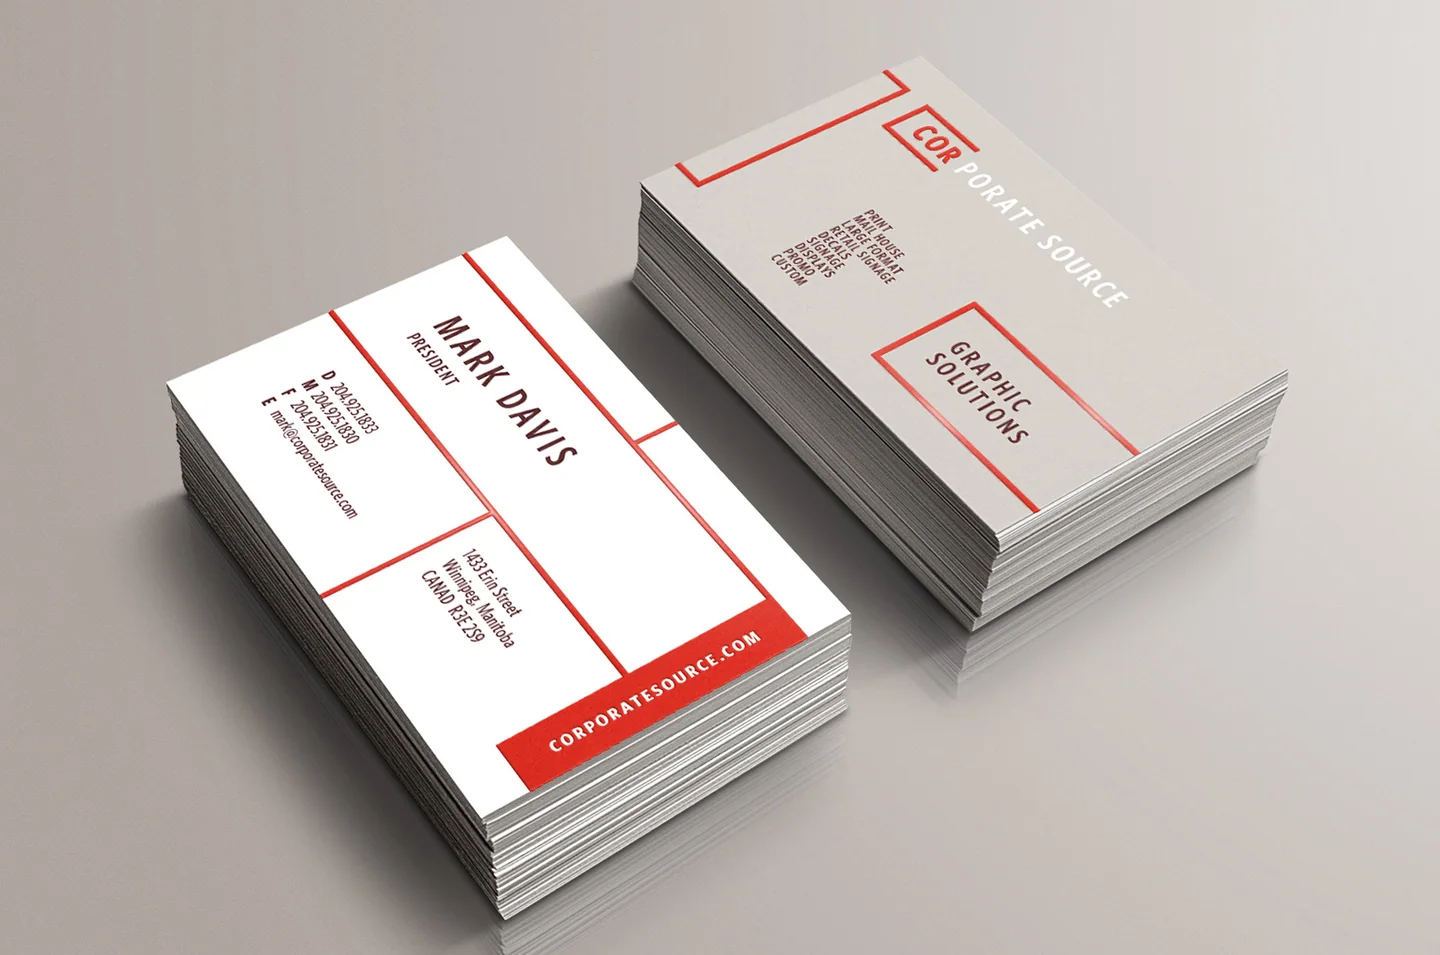
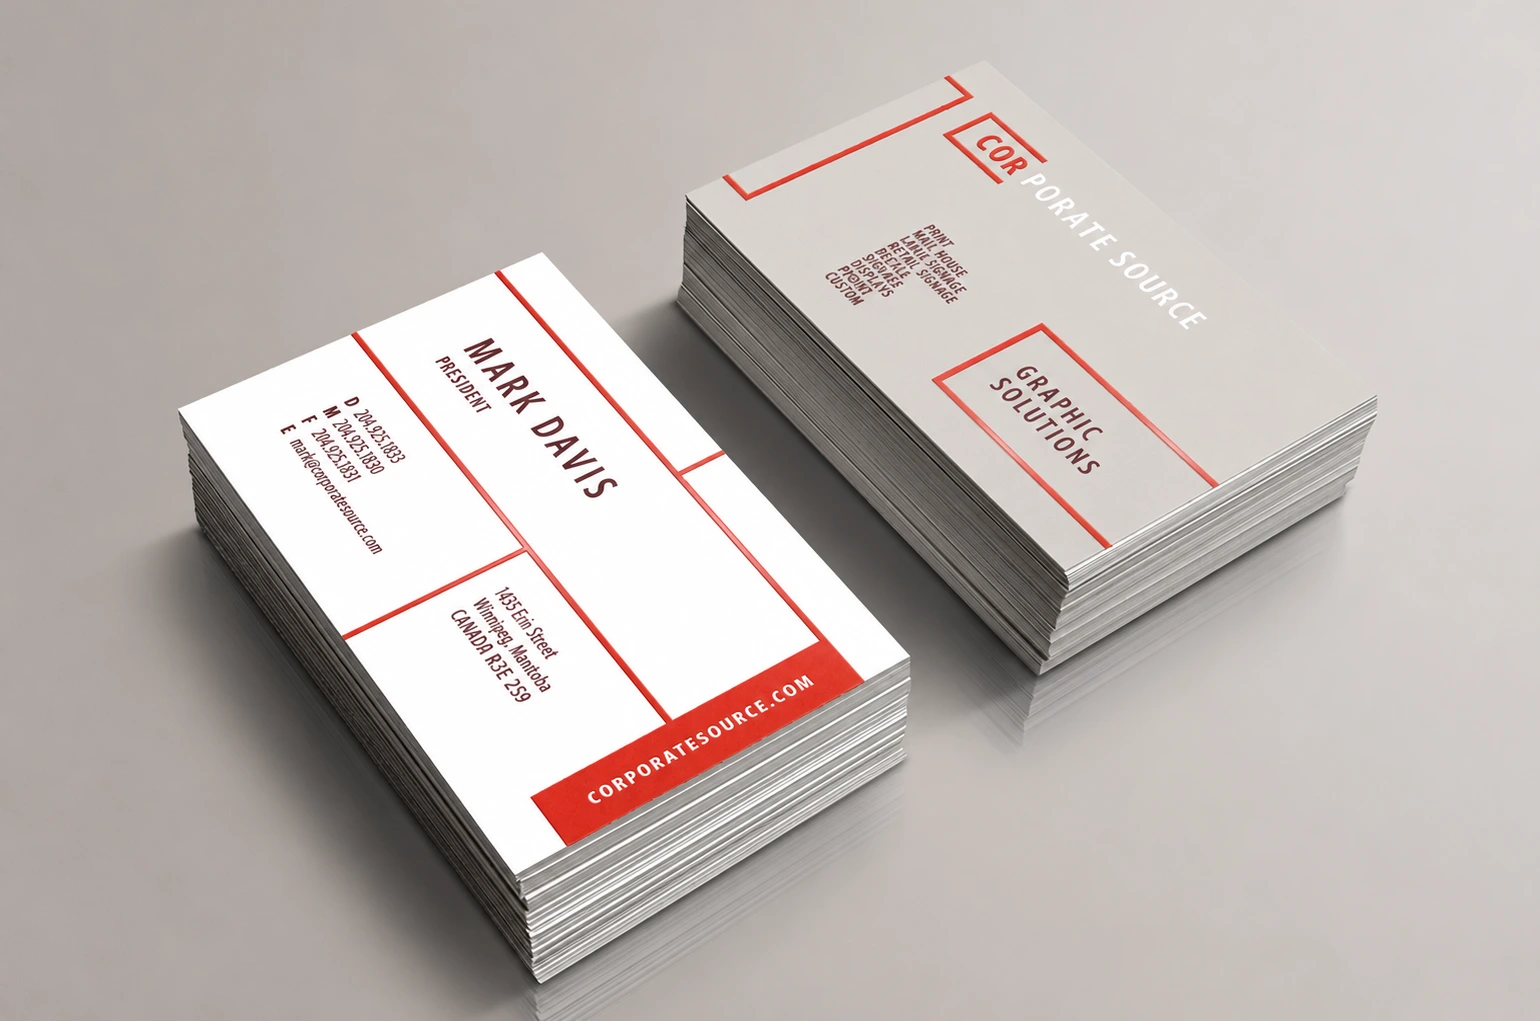
Replace final Corporate Source card image with approved correction

diff --git a/projects/corporate-source.html b/projects/corporate-source.html
@@ -7,7 +7,7 @@
 <header class="bar shell"><a class="wordmark" href="../">Rommel Cabanal</a>
 <nav aria-label="Main navigation"><a href="../#work">Work</a><a href="../#contact">Contact</a></nav></header>
 <main id="main"><section class="shell project-head"><a class="back" href="../#work">All work</a><div class="project-meta label"><span class="plain-label">Brand identity</span></div><h1>Corporate Source Printers</h1></section>
-<section class="shell project-photos" aria-label="Project images"><button type="button" aria-label="Enlarge image: Red and white business cards arranged in rows"><img src="../media/work/corporate-source/corp-stationary-2.webp" alt="Red and white business cards arranged in rows" width="1540" height="1021" fetchpriority=high></button><button type="button" aria-label="Enlarge image: White boxed lettering on a red background"><img src="../media/work/corporate-source/corp-logo-2.webp" alt="White boxed lettering on a red background" width="1440" height="955" loading=lazy></button><button type="button" aria-label="Enlarge image: White stationery, envelopes and red pen arranged on a table"><img src="../media/work/corporate-source/corp-stationary-3.webp" alt="White stationery, envelopes and red pen arranged on a table" width="1440" height="955" loading=lazy></button><button type="button" aria-label="Enlarge image: Two stacks of red and white business cards"><img src="../media/work/corporate-source/corp-stationary-1.webp" alt="Two stacks of red and white business cards" width="1440" height="955" loading=lazy></button></section>
+<section class="shell project-photos" aria-label="Project images"><button type="button" aria-label="Enlarge image: Red and white business cards arranged in rows"><img src="../media/work/corporate-source/corp-stationary-2.webp" alt="Red and white business cards arranged in rows" width="1540" height="1021" fetchpriority=high></button><button type="button" aria-label="Enlarge image: White boxed lettering on a red background"><img src="../media/work/corporate-source/corp-logo-2.webp" alt="White boxed lettering on a red background" width="1440" height="955" loading=lazy></button><button type="button" aria-label="Enlarge image: White stationery, envelopes and red pen arranged on a table"><img src="../media/work/corporate-source/corp-stationary-3.webp" alt="White stationery, envelopes and red pen arranged on a table" width="1440" height="955" loading=lazy></button><button type="button" aria-label="Enlarge image: Two stacks of red and white business cards"><img src="../media/work/corporate-source/corp-stationary-1.webp" alt="Two stacks of red and white business cards" width="1540" height="1021" loading=lazy></button></section>
 <section class="shell project-info"><h2>Project details</h2>
                 <div class="case-description">
                   <p>This rebrand takes the grid familiar to a commercial and digital printer and makes it visible in the identity. Boxed lettering and a red-and-white palette give Corporate Source Printers a wordmark that can anchor a single card or repeat across a stationery system.</p>
